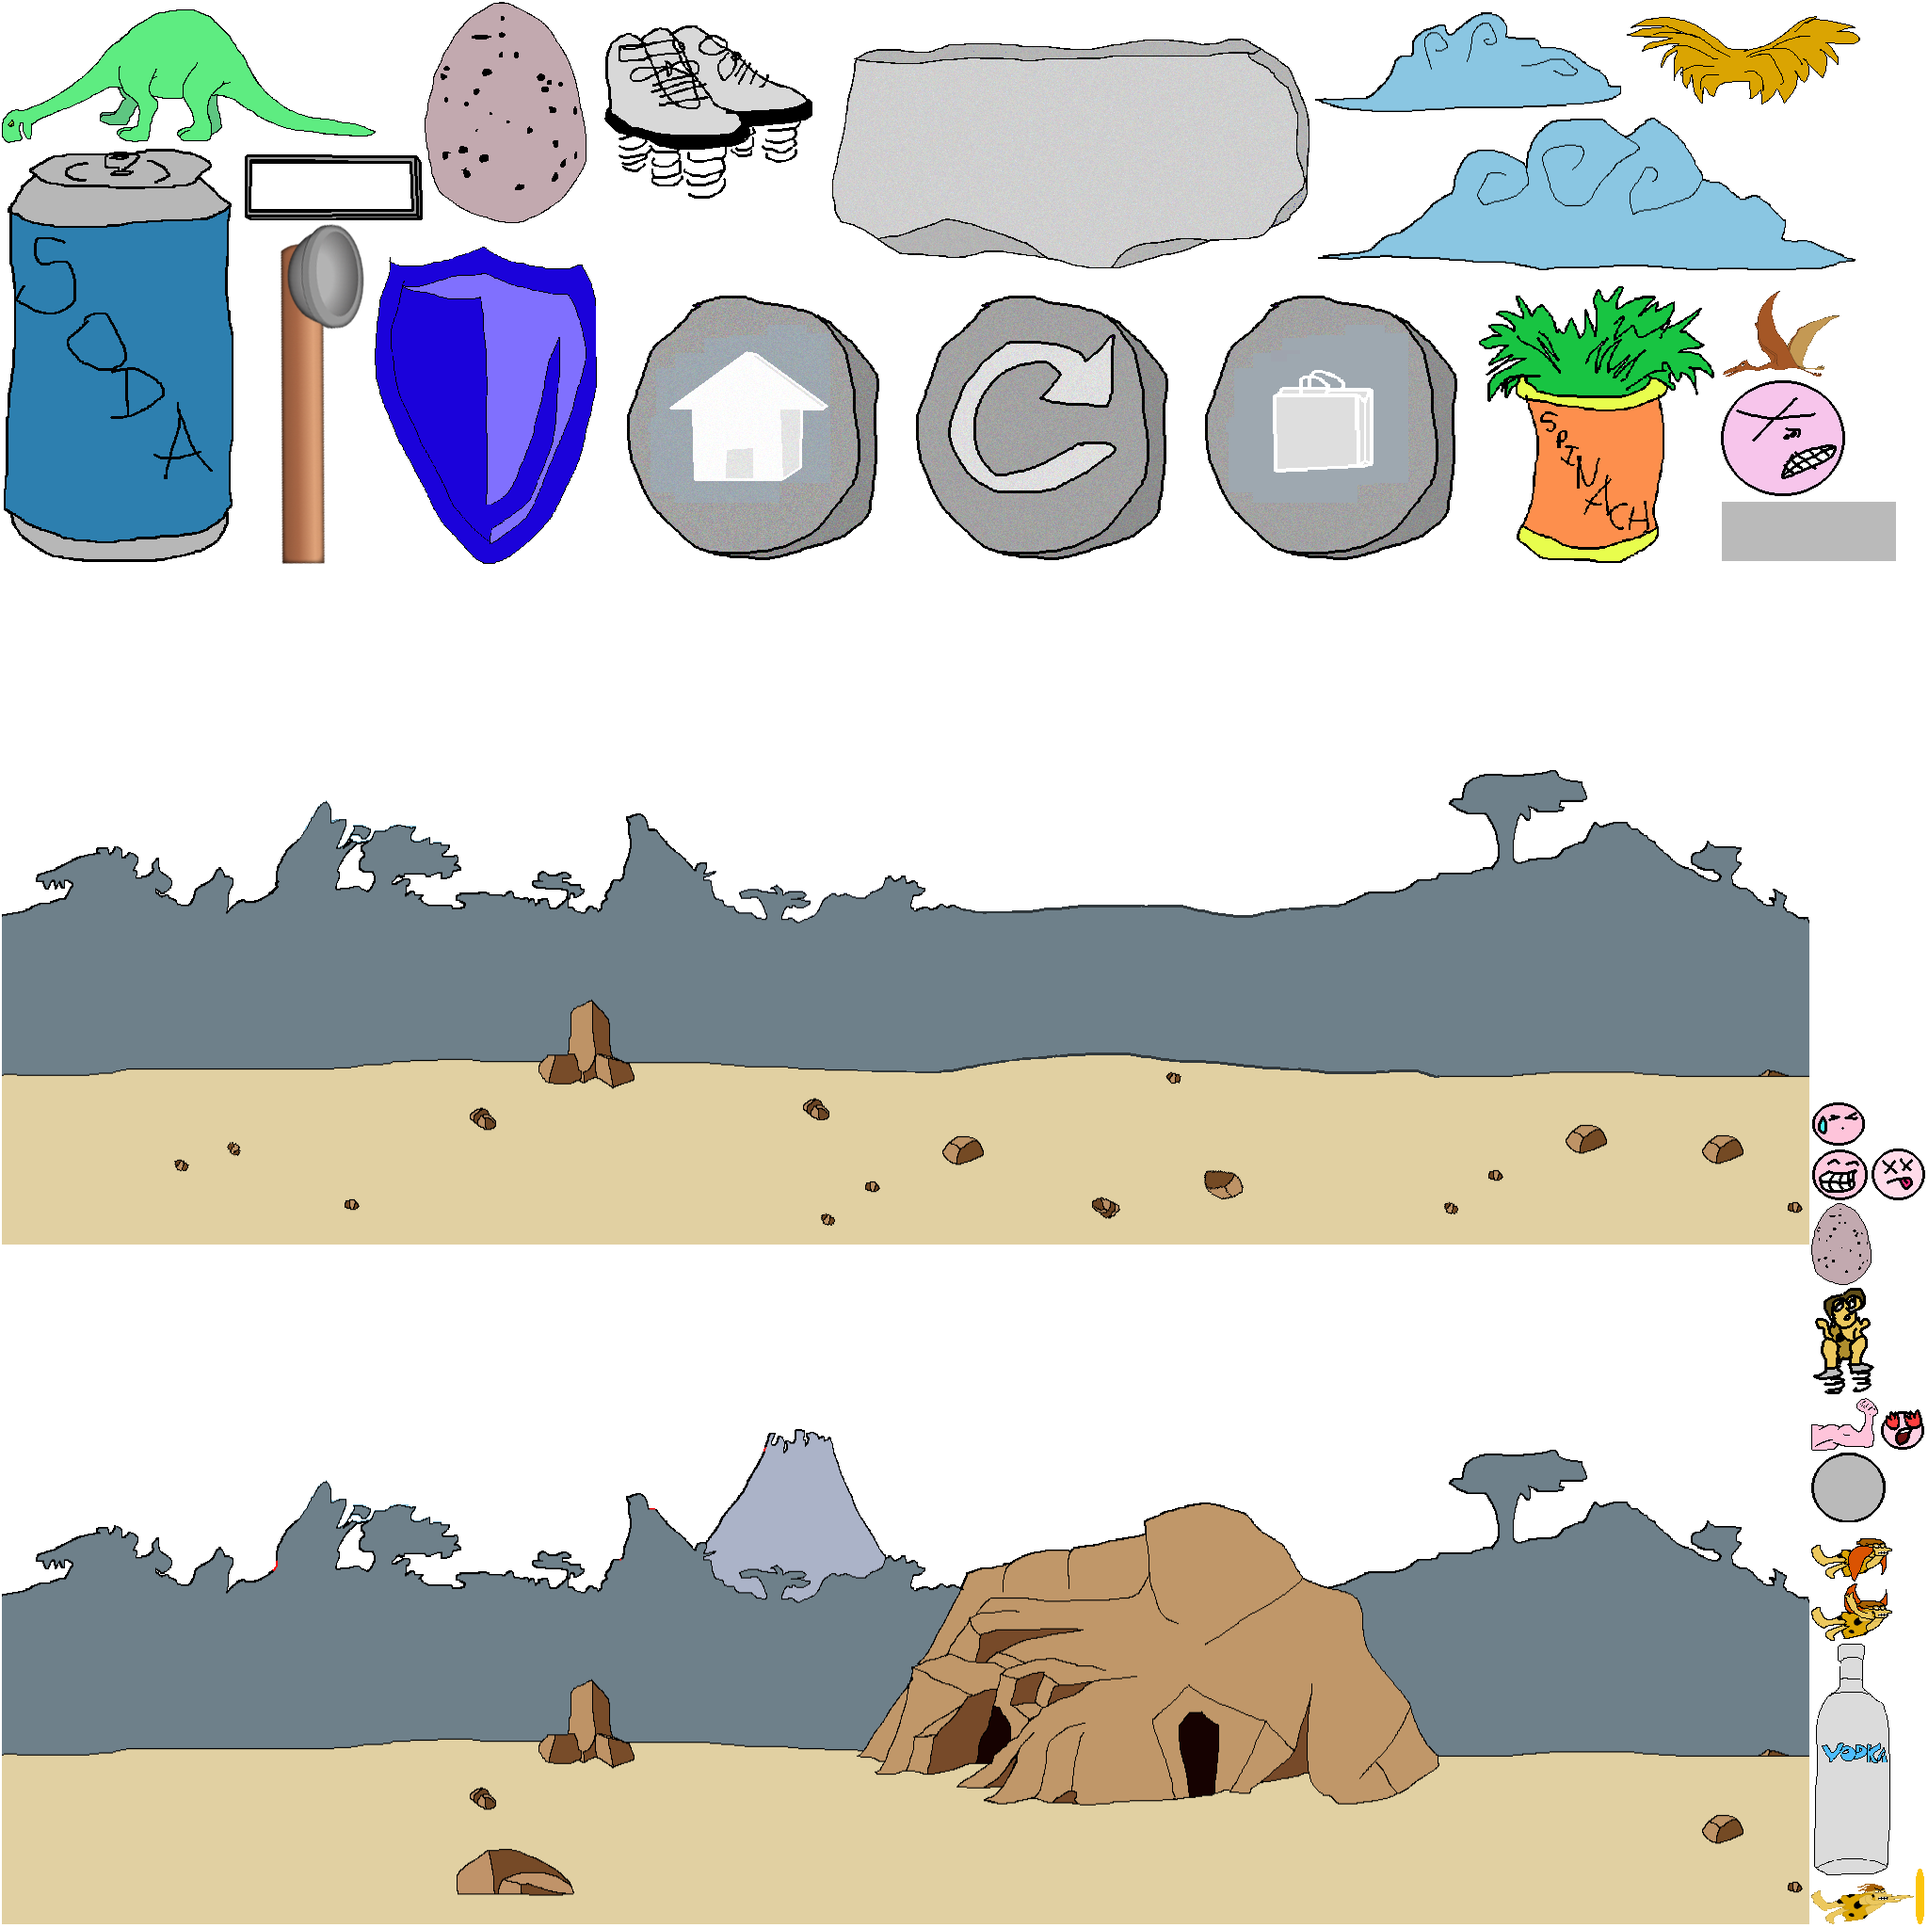
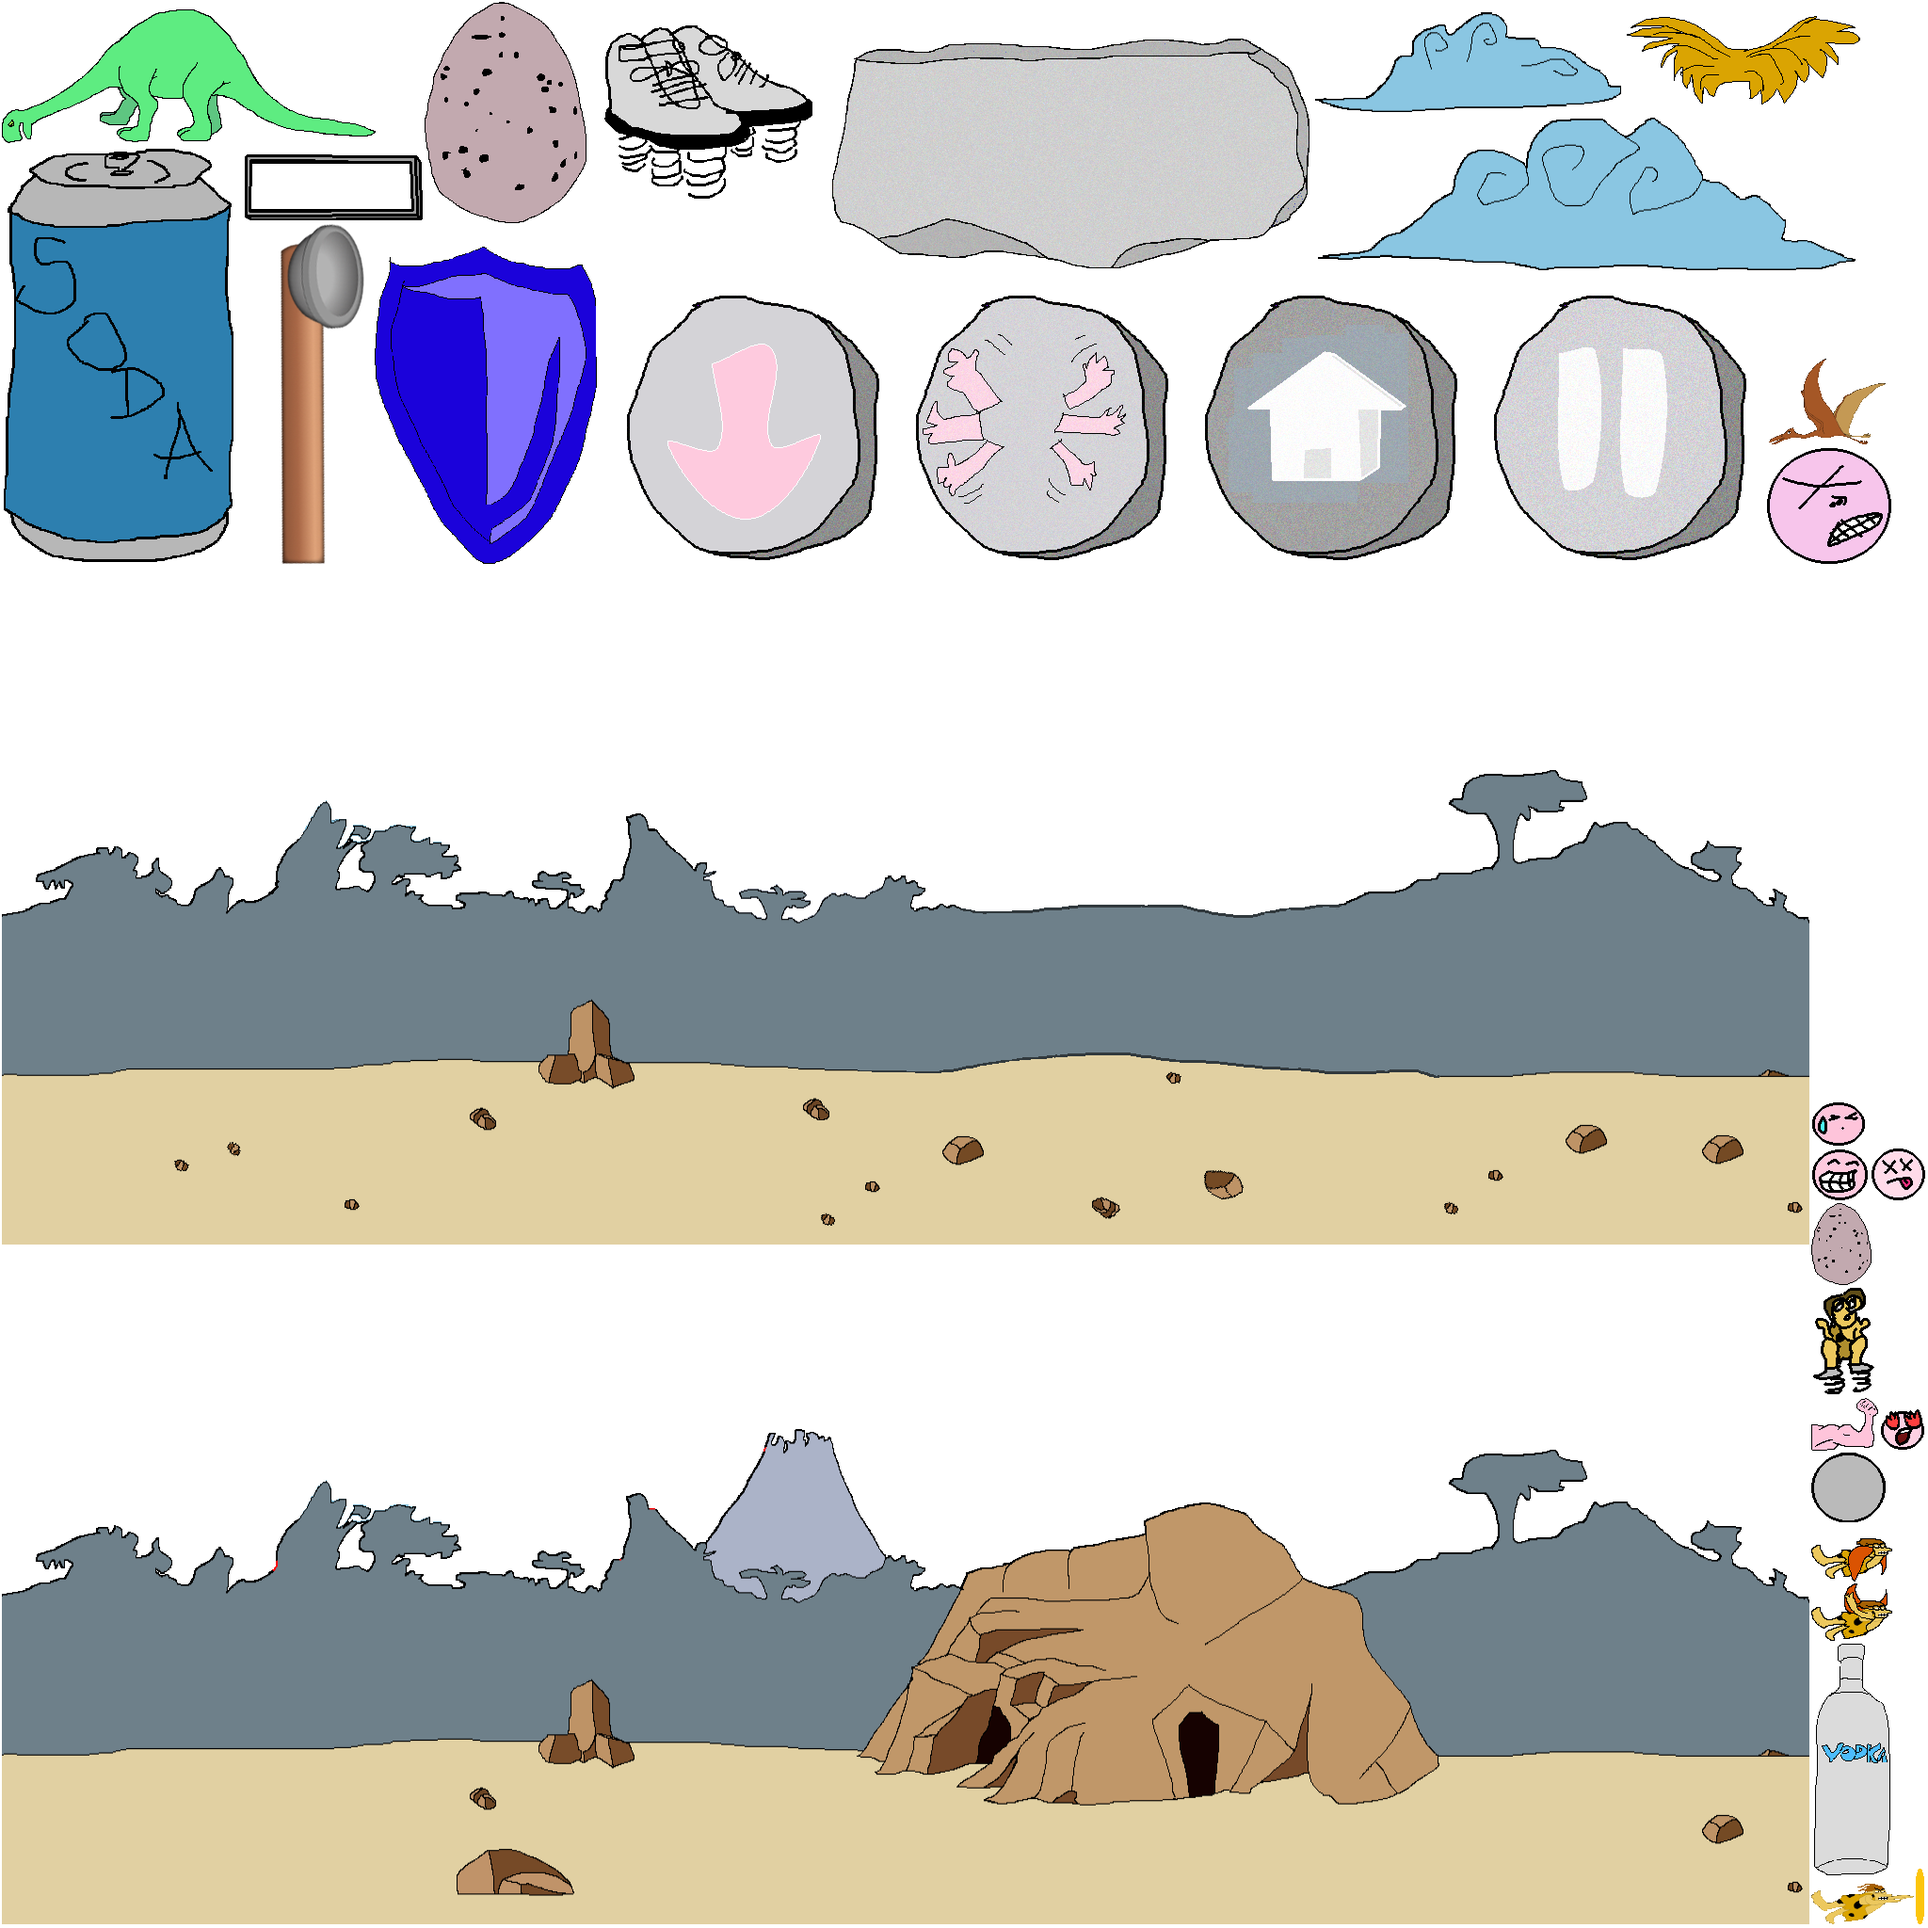
:trihard: drop button, flap button, funtionality, 420, get rekt, SourPls

Changed region(s): [[0.3125, 0.1562, 0.5938, 0.3125], [0.75, 0.1562, 1.0, 0.3125], [0.6562, 0.1875, 0.7188, 0.25]]

diff --git a/core/src/com/deeep/flycaveman/entities/FlapButton.java b/core/src/com/deeep/flycaveman/entities/FlapButton.java
@@ -1,0 +1,84 @@
+package com.deeep.flycaveman.entities;
+
+import com.badlogic.gdx.graphics.g2d.Batch;
+import com.badlogic.gdx.scenes.scene2d.Actor;
+import com.badlogic.gdx.scenes.scene2d.Event;
+import com.badlogic.gdx.scenes.scene2d.InputEvent;
+import com.badlogic.gdx.scenes.scene2d.ui.ImageButton;
+import com.badlogic.gdx.scenes.scene2d.utils.ClickListener;
+import com.badlogic.gdx.scenes.scene2d.utils.TextureRegionDrawable;
+import com.deeep.flycaveman.classes.Assets;
+
+/**
+ * Created by scanevaro on 12/02/2015.
+ */
+public class FlapButton extends Actor {
+    private CaveMan caveMan;
+
+    private ImageButton imageButton;
+    private ImageButton.ImageButtonStyle imageButtonStyle;
+
+    public FlapButton() {
+
+        imageButtonStyle = new ImageButton.ImageButtonStyle();
+        imageButtonStyle.imageUp = new TextureRegionDrawable(Assets.flapUp);
+        imageButtonStyle.imageDown = new TextureRegionDrawable(Assets.flapUp);
+        imageButton = new ImageButton(imageButtonStyle);
+
+        imageButton.addListener(new ClickListener() {
+            @Override
+            public boolean touchDown(InputEvent event, float x, float y, int pointer, int button) {
+                super.touchDown(event, x, y, pointer, button);
+
+                caveMan.flapping = true;
+
+                return true;
+            }
+
+            @Override
+            public void touchUp(InputEvent event, float x, float y, int pointer, int button) {
+                super.touchUp(event, x, y, pointer, button);
+
+                caveMan.flapping = false;
+            }
+        });
+    }
+
+    @Override
+    public void draw(Batch batch, float parentAlpha) {
+        batch.setColor(getColor().r, getColor().g, getColor().b, getColor().a * parentAlpha);
+
+        imageButton.draw(batch, parentAlpha);
+    }
+
+    @Override
+    public boolean fire(Event event) {
+        super.fire(event);
+
+        imageButton.fire(event);
+
+        return true;
+    }
+
+    public void setCaveMan(CaveMan caveMan) {
+        this.caveMan = caveMan;
+    }
+
+    @Override
+    public void setPosition(float x, float y) {
+        super.setPosition(x, y);
+        imageButton.setPosition(x, y);
+    }
+
+    @Override
+    public void setSize(float width, float height) {
+        super.setSize(width, height);
+
+        imageButtonStyle.imageUp.setMinWidth(width);
+        imageButtonStyle.imageUp.setMinHeight(height);
+        imageButtonStyle.imageDown.setMinWidth(width);
+        imageButtonStyle.imageDown.setMinHeight(height);
+
+        imageButton.setSize(width, height);
+    }
+}

diff --git a/core/src/com/deeep/flycaveman/screens/GameScreen.java b/core/src/com/deeep/flycaveman/screens/GameScreen.java
@@ -17,6 +17,8 @@ import com.badlogic.gdx.utils.viewport.FitViewport;
 import com.deeep.flycaveman.Core;
 import com.deeep.flycaveman.classes.Assets;
 import com.deeep.flycaveman.classes.World;
+import com.deeep.flycaveman.entities.DropButton;
+import com.deeep.flycaveman.entities.FlapButton;
 import com.deeep.flycaveman.entities.StaminaBar;
 import com.deeep.flycaveman.input.GameInputProcessor;
 
@@ -41,6 +43,8 @@ public class GameScreen extends AbstractScreen {
     private ImageButton pauseButton;
     private Window gameOverDialog, shopDialog;
     private StaminaBar staminaBar;
+    private DropButton dropButton;
+    private FlapButton flapButton;
     /**
      * World
      */
@@ -87,6 +91,9 @@ public class GameScreen extends AbstractScreen {
         restartStyle.imageUp.setMinWidth(64);
         restartStyle.imageUp.setMinHeight(64);
         pauseButton = new ImageButton(restartStyle);
+
+        flapButton = new FlapButton();
+        dropButton = new DropButton();
     }
 
     private void configureWidgets() {
@@ -102,6 +109,9 @@ public class GameScreen extends AbstractScreen {
         worldStage = new Stage(new FitViewport(Core.BOX2D_VIRTUAL_WIDTH, Core.BOX2D_VIRTUAL_HEIGHT));
         world = new World(worldStage, stage, true);
         stage.addActor(world);
+
+        flapButton.setCaveMan(world.caveman);
+        dropButton.setCaveMan(world.caveman);
     }
 
     private void getGameCamera() {
@@ -113,14 +123,19 @@ public class GameScreen extends AbstractScreen {
         distanceLabel.setPosition(Core.VIRTUAL_WIDTH - distanceLabel.getWidth(), 1);
         heightLabel.setSize(160, 64);
         heightLabel.setPosition(Core.VIRTUAL_WIDTH / 2 + staminaBar.background.getWidth() - heightLabel.getWidth() / 2, 1);
-
         pauseButton.setSize(64, 64);
         pauseButton.setPosition(0, Core.VIRTUAL_HEIGHT - pauseButton.getHeight());
+        flapButton.setSize(96, 96);
+        flapButton.setPosition(0, 0);
+        dropButton.setSize(96, 96);
+        dropButton.setPosition(Core.VIRTUAL_WIDTH - dropButton.getWidth(), 0);
 
         stage.addActor(distanceLabel);
         stage.addActor(heightLabel);
         stage.addActor(pauseButton);
         stage.addActor(staminaBar);
+        stage.addActor(flapButton);
+        stage.addActor(dropButton);
     }
 
     private void setInputProcessor() {

diff --git a/core/src/com/deeep/flycaveman/entities/DropButton.java b/core/src/com/deeep/flycaveman/entities/DropButton.java
@@ -1,0 +1,73 @@
+package com.deeep.flycaveman.entities;
+
+import com.badlogic.gdx.graphics.g2d.Batch;
+import com.badlogic.gdx.scenes.scene2d.Actor;
+import com.badlogic.gdx.scenes.scene2d.Event;
+import com.badlogic.gdx.scenes.scene2d.InputEvent;
+import com.badlogic.gdx.scenes.scene2d.ui.ImageButton;
+import com.badlogic.gdx.scenes.scene2d.utils.ClickListener;
+import com.badlogic.gdx.scenes.scene2d.utils.TextureRegionDrawable;
+import com.deeep.flycaveman.classes.Assets;
+
+/**
+ * Created by scanevaro on 12/02/2015.
+ */
+public class DropButton extends Actor {
+    private CaveMan caveMan;
+
+    private ImageButton imageButton;
+    private ImageButton.ImageButtonStyle imageButtonStyle;
+
+    public DropButton() {
+
+        imageButtonStyle = new ImageButton.ImageButtonStyle();
+        imageButtonStyle.imageUp = new TextureRegionDrawable(Assets.dropUp);
+        imageButtonStyle.imageDown = new TextureRegionDrawable(Assets.dropUp);
+        imageButton = new ImageButton(imageButtonStyle);
+
+        imageButton.addListener(new ClickListener() {
+            @Override
+            public void clicked(InputEvent event, float x, float y) {
+                caveMan.drop();
+            }
+        });
+    }
+
+    @Override
+    public void draw(Batch batch, float parentAlpha) {
+        batch.setColor(getColor().r, getColor().g, getColor().b, getColor().a * parentAlpha);
+
+        imageButton.draw(batch, parentAlpha);
+    }
+
+    @Override
+    public boolean fire(Event event) {
+        super.fire(event);
+
+        imageButton.fire(event);
+
+        return true;
+    }
+
+    public void setCaveMan(CaveMan caveMan) {
+        this.caveMan = caveMan;
+    }
+
+    @Override
+    public void setPosition(float x, float y) {
+        super.setPosition(x, y);
+        imageButton.setPosition(x, y);
+    }
+
+    @Override
+    public void setSize(float width, float height) {
+        super.setSize(width, height);
+
+        imageButtonStyle.imageUp.setMinWidth(width);
+        imageButtonStyle.imageUp.setMinHeight(height);
+        imageButtonStyle.imageDown.setMinWidth(width);
+        imageButtonStyle.imageDown.setMinHeight(height);
+
+        imageButton.setSize(width, height);
+    }
+}

diff --git a/core/src/com/deeep/flycaveman/input/GameInputProcessor.java b/core/src/com/deeep/flycaveman/input/GameInputProcessor.java
@@ -13,7 +13,7 @@ public class GameInputProcessor implements InputProcessor {
     private final int IDLE = 0;
     private final int CATAPULTSET = 1;
     private final int FLYING = 2;
-    private final int FLAPPING = 3;
+    //    private final int FLAPPING = 3;
     private final int DRAGGING = 4;
     private final int GAMEOVER = 5;
     private final int PAUSE = 6;
@@ -45,7 +45,7 @@ public class GameInputProcessor implements InputProcessor {
     public void update(float delta) {
         if (touchingGround)
             gameState = DRAGGING;
-        if (flying && gameState != FLAPPING)
+        if (flying)
             gameState = FLYING;
 
         switch (gameState) {
@@ -67,9 +67,6 @@ public class GameInputProcessor implements InputProcessor {
             case FLYING:
                 world.caveman.body.setAngularVelocity(0/*-3*/);
                 break;
-            case FLAPPING:
-                world.caveman.updateFlapping(delta);
-                break;
             case DRAGGING:
                 world.caveman.body.setAngularVelocity(0);
                 break;
@@ -81,9 +78,6 @@ public class GameInputProcessor implements InputProcessor {
         switch (gameState) {
             case IDLE:
                 gameState = CATAPULTSET;
-                break;
-            case FLYING:
-                gameState = FLAPPING;
                 break;
             case GAMEOVER:
                 //TODO
@@ -104,9 +98,6 @@ public class GameInputProcessor implements InputProcessor {
                 world.flying = true;
                 world.remove = true;
 
-                gameState = FLYING;
-                break;
-            case FLAPPING:
                 gameState = FLYING;
                 break;
         }

diff --git a/core/src/com/deeep/flycaveman/entities/CaveMan.java b/core/src/com/deeep/flycaveman/entities/CaveMan.java
@@ -40,6 +40,7 @@ public class CaveMan implements Entity {
     public static boolean addSprings;
     public int springs;
     public float stateTimeSprings;
+    public boolean flapping;
 
     public CaveMan(com.deeep.flycaveman.classes.World world) {
         bodyDef = new BodyDef();
@@ -91,13 +92,6 @@ public class CaveMan implements Entity {
         stamina = 0.5f;
     }
 
-    public void update(float delta) {
-        if (upgradeStamina && stamina < 0.5f)
-            stamina += delta / 25;
-
-        stateTimeSprings -= delta;
-    }
-
     public void draw(Batch batch) {
         if (stateTimeSprings > 0)
             sprite.setRegion(Assets.cavemanSprings);
@@ -110,6 +104,16 @@ public class CaveMan implements Entity {
         sprite.draw(batch);
 
         if (shields > 0) batch.draw(Assets.shield, sprite.getX(), sprite.getY(), size * 2, size * 2);
+    }
+
+    public void update(float delta) {
+        if (flapping)
+            updateFlapping(delta);
+
+        if (upgradeStamina && stamina < 0.5f)
+            stamina += delta / 25;
+
+        stateTimeSprings -= delta;
     }
 
     public void updateFlapping(float delta) {
@@ -158,6 +162,10 @@ public class CaveMan implements Entity {
         springs--;
 
         stateTimeSprings = 1.5f;
+    }
+
+    public void drop() {
+        body.applyForceToCenter(0, -10000, true);
     }
 
     public void hit() {

diff --git a/core/src/com/deeep/flycaveman/classes/Assets.java b/core/src/com/deeep/flycaveman/classes/Assets.java
@@ -35,7 +35,7 @@ public class Assets {
             staminaBackground, staminaFill, staminaBar, staminaHand, backgroundTexture,
             backgroundTexture2, restartButton, catapultArmTexture, catapultBaseTexture,
             homeButton, shopButton, staminaplus, shield, steroids, wings, springs, coin1,
-            coin2, coin3, coin4, coin5, coin6, cavemanSprings;
+            coin2, coin3, coin4, coin5, coin6, cavemanSprings, flapUp, dropUp;
     public static Animation cavemanWings;
     public static TextureRegion vodka, meat, soda, spinach;
     public static Sound hitGround1Sound;
@@ -135,6 +135,8 @@ public class Assets {
         cavemanWings.setPlayMode(Animation.PlayMode.LOOP);
 
         cavemanSprings = items.findRegion("springJump");
+        flapUp = items.findRegion("flapUp");
+        dropUp = items.findRegion("dropUp");
     }
 
     private static void setSounds() {
